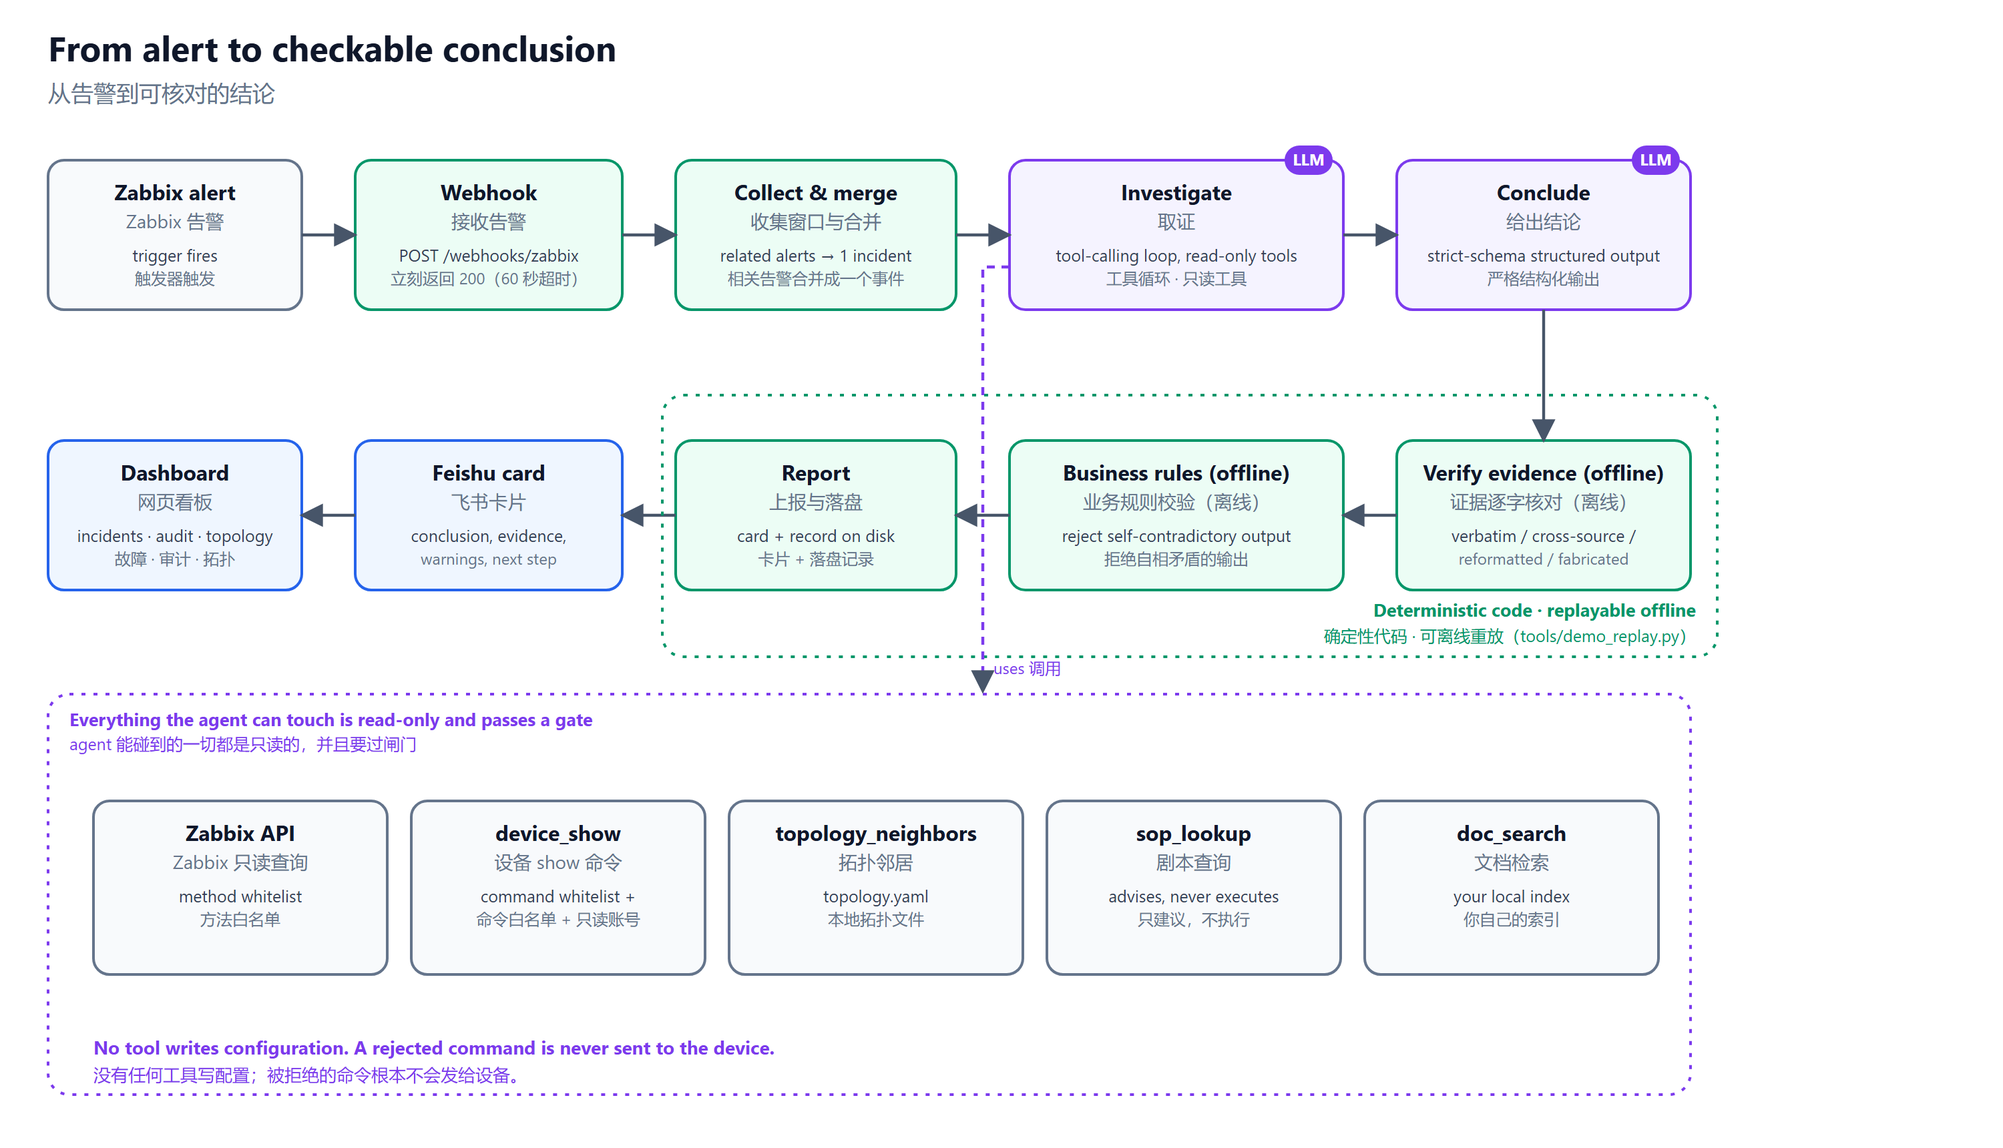
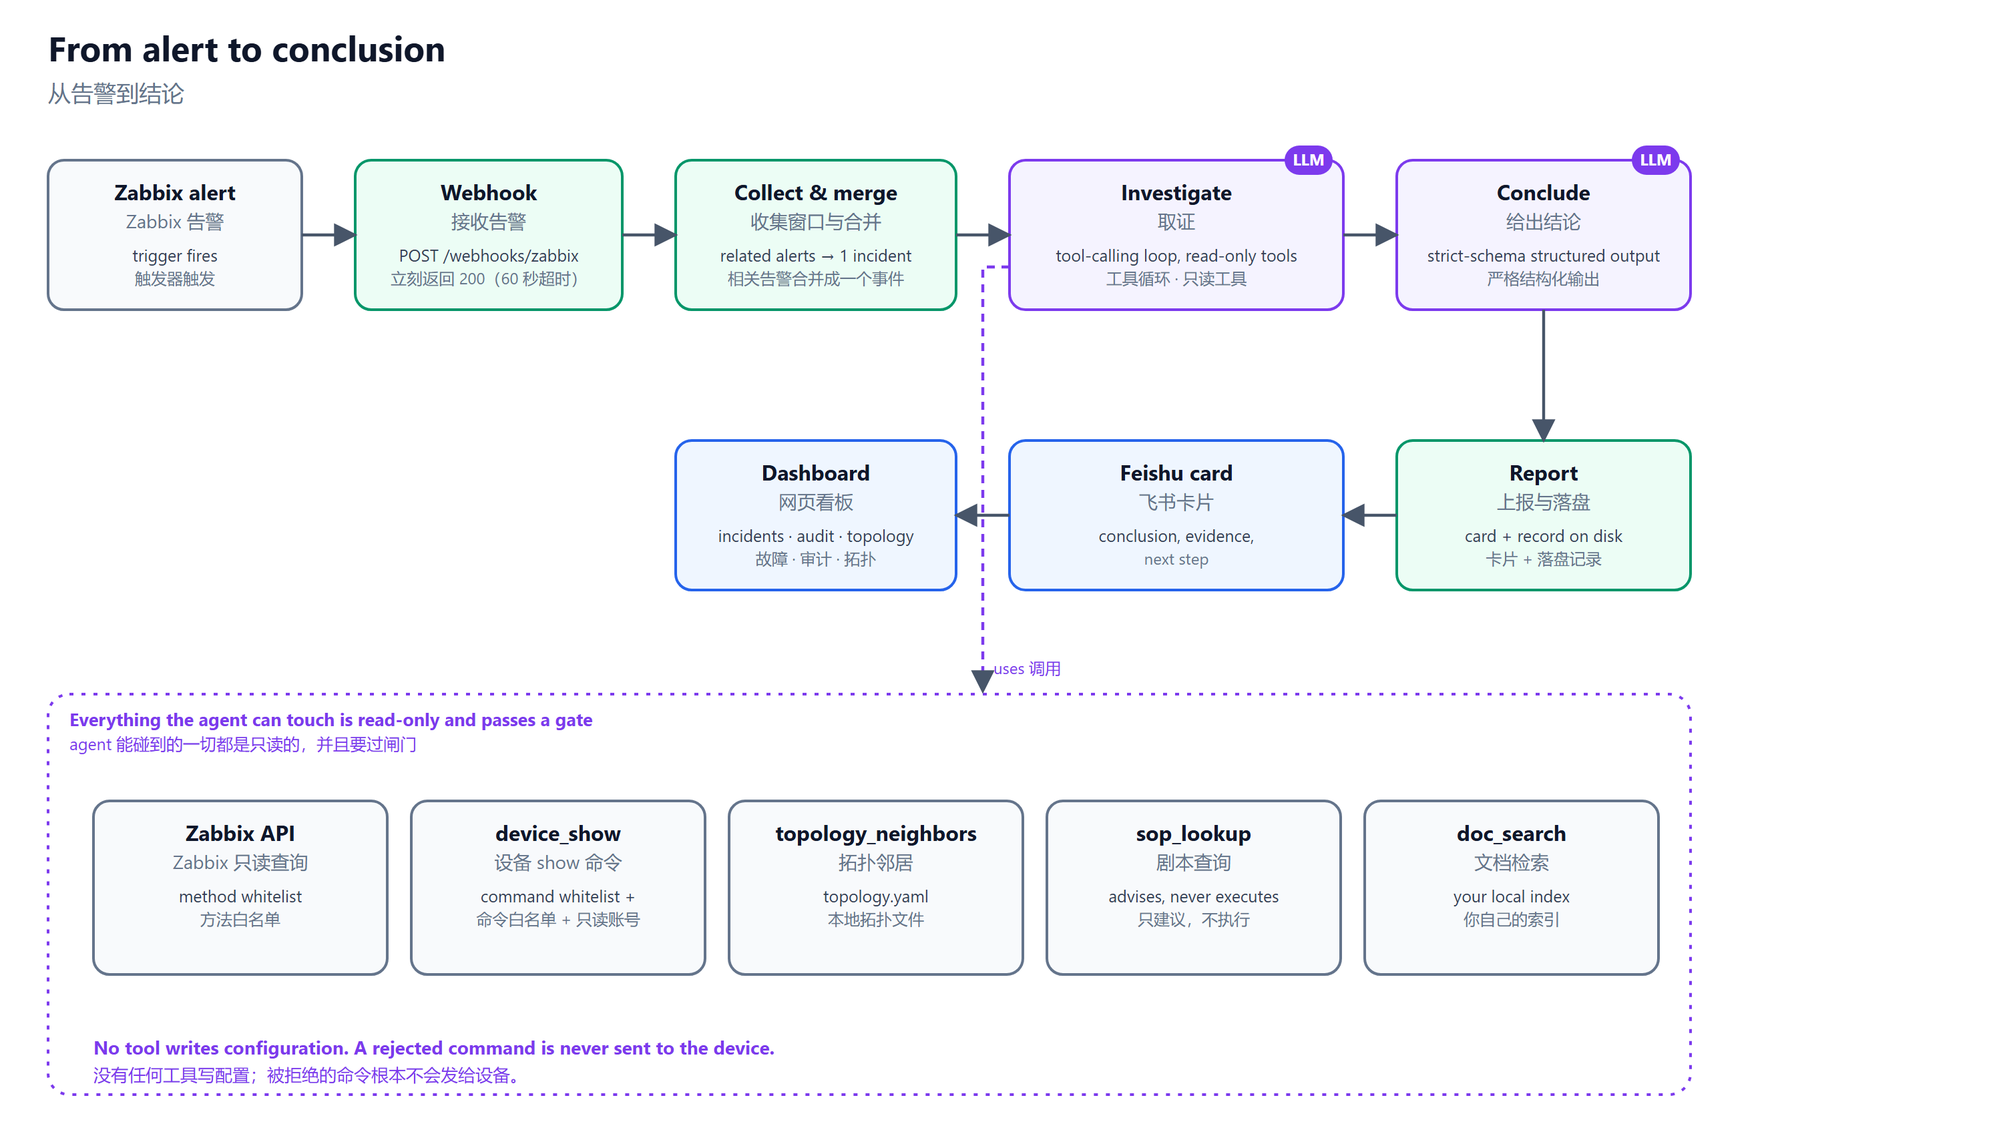
Docs: remove evidence-check descriptions and diagram boxes

diff --git a/docs/ARCHITECTURE.md b/docs/ARCHITECTURE.md
@@ -18,9 +18,6 @@ Zabbix trigger ──► POST /webhooks/zabbix ──► 200 immediately (Zabbix
         │                     (netops_ai/analysis/schema.py)            │
         │ 4. Report           Feishu card + a record on disk            │
         │                     (netops_ai/feishu/, records/alert-*.json) │
-        │ Offline only: analysis/verify.py grades evidence quotes and   │
-        │ check_business_rules flags contradictions, on saved records   │
-        │ via tools/demo_replay.py (not run in the live path).          │
         └─────────────────────────────────────────────────────────────┘
                           │
                           ▼
@@ -61,8 +58,6 @@ The Zabbix client has the same shape: every call goes through a method whitelist
 - `undistinguishable_candidates[]` — when two or more families are unresolved, name them, say why they can't be separated, which data would separate them, the exact command to get it, and who can fetch it (the agent again, or a human)
 - `alert_roles`, `grouping` — which alert is the root and which are consequences
 
-`verify.py` grades each evidence item: `verbatim` (found as-is in the named pool), `cross_source` (found, but in a different pool than claimed), `reformatted` (found after whitespace/render normalization), `fabricated` (not found). `check_business_rules` rejects combinations such as high confidence with unresolved families, or an incomplete grouping. **Neither runs in the live alert pipeline**: on real devices they produced too many false alarms, mostly from quotes the model assembled out of several separate lines. `tools/demo_replay.py`, the regression tools and the tests run them on saved records.
-
 ## The agent loop
 
 `graph/agent_loop.py` is the only loop. Alert investigation and anything else that calls tools share it, with: a token budget and tool-call/iteration limits (a hop finishes before the budget is checked, so the cap is soft by up to one hop); duplicate-call interception (the same tool with the same arguments is answered from the earlier result and counted as "no new information"); a no-progress abort after repeated duplicates; an optional short-lived cache for identical read-only calls; and a wrap-up call that makes the model summarize what it has when it is cut off.
@@ -78,7 +73,7 @@ Two complementary checks (`netops_ai/inspection/`):
 - **Trend inspection** reads Zabbix history only and runs three pure-function detectors: sustained one-way trend, periodic spike, and self-healing flap. Thresholds and scan scope live in `inspection.yaml` (editable from the UI).
 - **Status inspection** logs into each device read-only and checks interface state, OSPF neighbors, BGP sessions and error-counter growth with fixed rules (no model). Each finding carries the device's own output as evidence.
 
-An optional model call turns findings into "what to handle tonight / what to ignore (with a reason) / can't tell", with citations verified the same way as alert evidence. Each run is stored compactly so the page can show what is new or gone since last time, and reports export to Markdown/HTML.
+An optional model call turns findings into "what to handle tonight / what to ignore (with a reason) / can't tell". Each run is stored compactly so the page can show what is new or gone since last time, and reports export to Markdown/HTML.
 
 ## Layout of the web UI
 
@@ -95,10 +90,10 @@ An optional model call turns findings into "what to handle tonight / what to ign
 
 ## 中文摘要
 
-**告警管道**：Zabbix 触发 → `POST /webhooks/zabbix` 立刻返回 200（Zabbix webhook 60 秒硬超时）→ 后台任务：①收集窗口（短时间内的相关告警合并成一个事件）②取证（一个带只读工具的工具循环）③结论（严格 schema 的结构化输出）④飞书卡片 + 落盘记录 → 看板读取记录。证据逐字核对和业务规则校验不在这条在线链路里，是确定性代码，对已保存的记录离线重放（`tools/demo_replay.py`）。
+**告警管道**：Zabbix 触发 → `POST /webhooks/zabbix` 立刻返回 200（Zabbix webhook 60 秒硬超时）→ 后台任务：①收集窗口（短时间内的相关告警合并成一个事件）②取证（一个带只读工具的工具循环）③结论（严格 schema 的结构化输出）④飞书卡片 + 落盘记录 → 看板读取记录。
 
 **两层只读**：①命令白名单（`devices/whitelist.py`）：只放行写全的命令，不认缩写，先查禁令再查放行，管道后只允许 `include/exclude/begin/section/count`，拒绝 shell 元字符/控制字符/非 ASCII/超过 200 字符，`ping`/`traceroute` 默认关闭；在 `DeviceAdapter.run()` 里判断，被拒的命令根本不会发出。②设备侧只读账号（代码替你保证不了；IOS 上 `enable` 没设 secret 时低权限等级不是边界，要在真实 VTY 上验证写命令被拒）。Zabbix 客户端同样先过方法白名单。
 
-**结构化结论**：六类假设逐个表态（有证据支持 / 已排除且必须给直接反证 / 暂时无法判断）；多个方向分不开时必须写清为什么分不开、还差什么数据、具体用什么命令拿、谁去拿。`verify.py` 可以给每条证据分级（逐字 / 跨来源 / 重排版 / 编造），业务规则可以拒绝自相矛盾的输出——二者只在离线回放和回归里跑，在线流水线不跑（真机上误报偏多）。
+**结构化结论**：六类假设逐个表态（有证据支持 / 已排除且必须给直接反证 / 暂时无法判断）；多个方向分不开时必须写清为什么分不开、还差什么数据、具体用什么命令拿、谁去拿。
 
 **工具循环**：唯一的一个，带 token 预算（一跳做完才检查，所以上限是软的，最多超冲一跳）、重复调用拦截、无进展中止、可选缓存和收尾调用。**剧本**只是给 agent 的建议（`sop_lookup`），引擎不执行步骤，实际用了哪几步记为 `sop_usage`。**巡检**分趋势巡检（只读 Zabbix 历史，三类纯函数检测器）和状态巡检（只读登设备，固定规则，证据是设备原话）。

diff --git a/CONTRIBUTING.md b/CONTRIBUTING.md
@@ -5,10 +5,9 @@ Thanks for considering a contribution. This project has a small number of non-ne
 ## Non-negotiables
 
 1. **Read-only, always.** No change may introduce a code path that writes configuration to a device or a write method to Zabbix. The command whitelist (`netops_ai/devices/whitelist.py`) and the Zabbix method whitelist are the gate; **the code adapts to the gate, never the other way round.** A change that loosens a whitelist needs a test that shows exactly which new command becomes allowed and why it is read-only on the platforms we support — and it should be small.
-2. **Evidence stays verbatim.** Don't weaken `analysis/verify.py` or the business rules to make a model's output pass. If real model output is being rejected, fix the prompt or the schema description, or show a recorded case where the rule is wrong.
-3. **Don't guess.** Unknown vendor → raise. Unknown value → say so. Failed fallback → record why. Prefer a loud, specific error over a plausible default.
-4. **Tests never touch real state.** They must not read or write real `records/`, ledgers, `.env` or credentials, and must not need a live device, Zabbix or model. The test package (`tests/__init__.py`) redirects the writable locations to temp directories before anything is imported — keep it that way.
-5. **No secrets, no real addresses.** Don't commit credentials, tokens, real hostnames/IPs, or captures from a production network. Use RFC 5737 documentation addresses (`192.0.2.0/24`, `198.51.100.0/24`, `203.0.113.0/24`) in examples.
+2. **Don't guess.** Unknown vendor → raise. Unknown value → say so. Failed fallback → record why. Prefer a loud, specific error over a plausible default.
+3. **Tests never touch real state.** They must not read or write real `records/`, ledgers, `.env` or credentials, and must not need a live device, Zabbix or model. The test package (`tests/__init__.py`) redirects the writable locations to temp directories before anything is imported — keep it that way.
+4. **No secrets, no real addresses.** Don't commit credentials, tokens, real hostnames/IPs, or captures from a production network. Use RFC 5737 documentation addresses (`192.0.2.0/24`, `198.51.100.0/24`, `203.0.113.0/24`) in examples.
 
 ## Development setup
 
@@ -41,10 +40,9 @@ Open an issue with: what you ran, what you expected, what happened, and (if rele
 几条不能松的底线，先读能省一轮来回：
 
 1. **永远只读。** 任何改动都不能引入往设备写配置、往 Zabbix 调写方法的路径。命令白名单和 Zabbix 方法白名单是闸门，**代码迁就闸门，不是闸门迁就代码。** 放宽白名单的改动，必须有测试精确说明哪条新命令被放行、为什么它在我们支持的平台上是只读的，并且改动要小。
-2. **证据保持逐字。** 不要为了让某次模型输出通过而削弱 `analysis/verify.py` 或业务规则；真实输出被拒，就去改提示词/schema 描述，或拿一条录下来的案例证明规则本身错了。
-3. **不猜。** 不认识的厂商就抛错，不认识的值就说不认识，兜底失败要记原因；宁要响亮具体的报错，不要看着合理的默认值。
-4. **测试不碰真实状态。** 不读写真实 `records/`、账本、`.env`、凭据，也不依赖在线设备/Zabbix/模型。`tests/__init__.py` 会在任何 import 之前把可写位置重定向到临时目录，别破坏这点。
-5. **不放密钥、不放真实地址。** 示例里用 RFC 5737 文档地址段（`192.0.2.0/24` 等），别提交凭据、令牌、真实主机名/IP，或来自生产网络的抓包。
+2. **不猜。** 不认识的厂商就抛错，不认识的值就说不认识，兜底失败要记原因；宁要响亮具体的报错，不要看着合理的默认值。
+3. **测试不碰真实状态。** 不读写真实 `records/`、账本、`.env`、凭据，也不依赖在线设备/Zabbix/模型。`tests/__init__.py` 会在任何 import 之前把可写位置重定向到临时目录，别破坏这点。
+4. **不放密钥、不放真实地址。** 示例里用 RFC 5737 文档地址段（`192.0.2.0/24` 等），别提交凭据、令牌、真实主机名/IP，或来自生产网络的抓包。
 
 开发流程：建虚拟环境 → `pip install -r requirements.txt` → `python -m pytest tests -q` → `python tools/demo_replay.py` → `cd web && npm ci && npx tsc --noEmit && npm run build`。依赖版本是**故意钉死**的（agent 循环的行为取决于 LangChain/LangGraph 的确切版本）；升级要单独评审，并在前后各跑一遍全量测试和一条真实告警。PR 一次只做一件事，先说问题再说改动；改行为就改测试，修 bug 要有「不修就红」的测试；界面文案在 `web/src/lib/i18n.ts` 里中英文都要加。
 

diff --git a/docs/INSTALL.md b/docs/INSTALL.md
@@ -17,11 +17,11 @@ python -m venv .venv
 pip install -r requirements.txt
 
 python -m pytest tests -q            # no devices, models or credentials needed
-python tools/demo_replay.py          # replays 3 synthetic alerts through verification, rules and card rendering
+python tools/demo_replay.py          # replays 3 synthetic alerts and renders the Feishu card
 python tools/demo_replay.py --card   # also print the Feishu card JSON
 ```
 
-Expected from the replay: record 1 and 2 verify cleanly with no rule violations (record 2 honestly says "could not determine"); record 3 reports one `✗ fabricated` evidence item and one business-rule violation, and the summary line reads `3 条记录，6 条证据，其中 1 条被判编造`.
+Expected from the replay: three records and a summary line (`3 条记录，…`); record 2 honestly says "could not determine" and its card is orange.
 
 To replay your own record, pass the path of an `alert-*.json` produced by the pipeline: `python tools/demo_replay.py records/alert-123.json`.
 
@@ -132,7 +132,7 @@ Trigger a test: `curl -X POST http://127.0.0.1:8000/webhooks/zabbix -H 'content-
 - **SNMP traps** (faster than polling for link/OSPF/BGP events): `deploy/trap/` contains lab scripts to install `snmptrapd` and add trap items. They write device/guest configuration in a lab; read them before running anything.
 - **A lab to try it on**: [LAB.md](LAB.md) describes the reference lab (7 Cisco nodes, Zabbix, traps, the faults we injected) and how to rebuild something similar.
 - **Documentation search**: the index ships empty. `python tools/kb_ingest.py --help`, ingest documents you are licensed to use; the agent's `doc_search` tool then returns passages labelled as vendor documentation (never as device evidence).
-- **Regression runs**: `python -m tools.run_regression spike-demo` replays a case directory (`experiments/spike/<case>/input-zabbix.md` + `input-device.md`) through the model several times and checks every output with the same verification and rules. A synthetic `spike-demo` case is included; this one calls your LLM.
+- **Regression runs**: `python -m tools.run_regression spike-demo` replays a case directory (`experiments/spike/<case>/input-zabbix.md` + `input-device.md`) through the model several times. A synthetic `spike-demo` case is included; this one calls your LLM.
 - **Scheduled inspection**: runs every `SCHEDULE_INTERVAL_MINUTES` (default 60) while the API process is up.
 
 ## Troubleshooting
@@ -150,7 +150,7 @@ Trigger a test: `curl -X POST http://127.0.0.1:8000/webhooks/zabbix -H 'content-
 
 **三个层级，互不依赖**：①测试 + 离线回放（不需要任何外部东西）；②网页看板；③完整链路（Zabbix + 设备 + 大模型）。
 
-**①** Python 3.13；`python -m venv .venv`，激活后 `pip install -r requirements.txt`；`python -m pytest tests -q`；`python tools/demo_replay.py`（`--card` 同时打印飞书卡片）。预期：第 1、2 条证据全部逐字核过且无规则违反（第 2 条老实说「判不出」）；第 3 条报 1 条「编造」证据和 1 条业务规则违反，汇总行是「3 条记录，6 条证据，其中 1 条被判编造」。
+**①** Python 3.13；`python -m venv .venv`，激活后 `pip install -r requirements.txt`；`python -m pytest tests -q`；`python tools/demo_replay.py`（`--card` 同时打印飞书卡片）。预期：打印 3 条记录和一行汇总；第 2 条老实说「判不出」，卡片是橙色。
 
 **②** `cd web && npm ci && npm run build`，回到根目录 `python -m uvicorn netops_ai.api.app:app --host 127.0.0.1 --port 8000`，打开 `http://127.0.0.1:8000`。**接口和看板没有鉴权，只绑本机，或放在带认证的反向代理后面。**
 

diff --git a/examples/README.md b/examples/README.md
@@ -1,16 +1,16 @@
 # Examples / 示例
 
-`alerts/` holds three **synthetic** alert records (hand-written; no real network, host or address is involved). They have the same shape as the `records/alert-*.json` files the pipeline writes, so `tools/demo_replay.py` exercises the real verification, business-rule and card code on them.
+`alerts/` holds three **synthetic** alert records (hand-written; no real network, host or address is involved). They have the same shape as the `records/alert-*.json` files the pipeline writes, so `tools/demo_replay.py` can render the real Feishu card from them, and you can copy them into `records/` to see them on the dashboard.
 
 | File | Shows |
 |---|---|
-| `01-interface-admin-down.json` | A clean case: every piece of evidence is quoted verbatim from the raw data, every ruled-out hypothesis carries counter-evidence, no rule is violated |
+| `01-interface-admin-down.json` | A clean case: a root cause with quoted evidence, every ruled-out hypothesis carries counter-evidence |
 | `02-ospf-neighbor-timeout.json` | An honest "can't tell": two hypotheses cannot be separated from one device's data, so the record names them, says what data would help and the exact commands to get it, and the card is orange instead of green |
-| `03-fabricated-evidence.json` | A deliberately bad record: one evidence quote does not exist in the device output (graded `fabricated`), and confidence is `high` while hypotheses remain unresolved (business-rule violation) |
+| `03-fabricated-evidence.json` | A deliberately flawed record, used by the tests as a negative case |
 
 ```bash
 python tools/demo_replay.py             # all three
 python tools/demo_replay.py --card      # plus the Feishu card JSON
 ```
 
-`alerts/` 下是三条**合成**的告警记录（手写，不涉及任何真实网络、主机或地址），形状与流水线落盘的 `records/alert-*.json` 一致，所以 `tools/demo_replay.py` 跑的是真实的证据核对、业务规则和卡片渲染代码：01 是干净样例；02 是老实承认「判不出」（卡片是橙色）；03 是故意写坏的——一条编造的证据 + 置信度 high 却还有没排除的方向。
+`alerts/` 下是三条**合成**的告警记录（手写，不涉及任何真实网络、主机或地址），形状与流水线落盘的 `records/alert-*.json` 一致，所以 `tools/demo_replay.py` 能用它们渲染真实的飞书卡片，也可以复制进 `records/` 在看板里看：01 是干净样例；02 是老实承认「判不出」（卡片是橙色）；03 是故意写坏的，测试里当反例用。

diff --git a/README.md b/README.md
@@ -31,9 +31,6 @@
 <p align="center"><img src="docs/images/guard.png" alt="two-layer read-only guard" width="900"></p>
 
 - **Conclude.** The model fills a strict schema. For each of six hypothesis families (local action, local hardware/resource, remote/upstream, link/path quality, management plane, monitoring artifact) it must say supported, ruled out (with counter-evidence) or undetermined — and "can't tell" must say what data and which command would settle it.
-- **Check the evidence.** `netops_ai/analysis/verify.py` can look every quoted line up in the raw Zabbix/device output and grade it verbatim / cross-source / reformatted / fabricated. It runs in the offline replay and regression tools, not in the live pipeline (too many false alarms on real devices, where models often join several lines into one quote).
-
-<p align="center"><img src="docs/images/evidence.png" alt="evidence grading" width="900"></p>
 
 ## Features
 
@@ -107,9 +104,6 @@ Apache-2.0 — [LICENSE](LICENSE).
 <p align="center"><img src="docs/images/guard.png" alt="两层只读守卫" width="900"></p>
 
 - **结论。** 模型填一份严格的结构：六类假设（本端操作、本机硬件或资源、对端或上游、链路质量、管理面、监控采集自身问题）逐个表态，支持 / 已排除（要给反证）/ 暂时判不了；判不了的要写清还差什么数据、用哪条命令能判。
-- **核对证据。** `netops_ai/analysis/verify.py` 可以把每条引用的原文拿到 Zabbix/设备原始输出里查，分逐字 / 跨来源 / 重排版 / 编造四级。它在离线回放和回归工具里跑，**不在**在线流水线里（真机上误报多：模型常把几行不相连的原文拼成一条引用）。
-
-<p align="center"><img src="docs/images/evidence.png" alt="证据分级" width="900"></p>
 
 ## 功能清单
 
